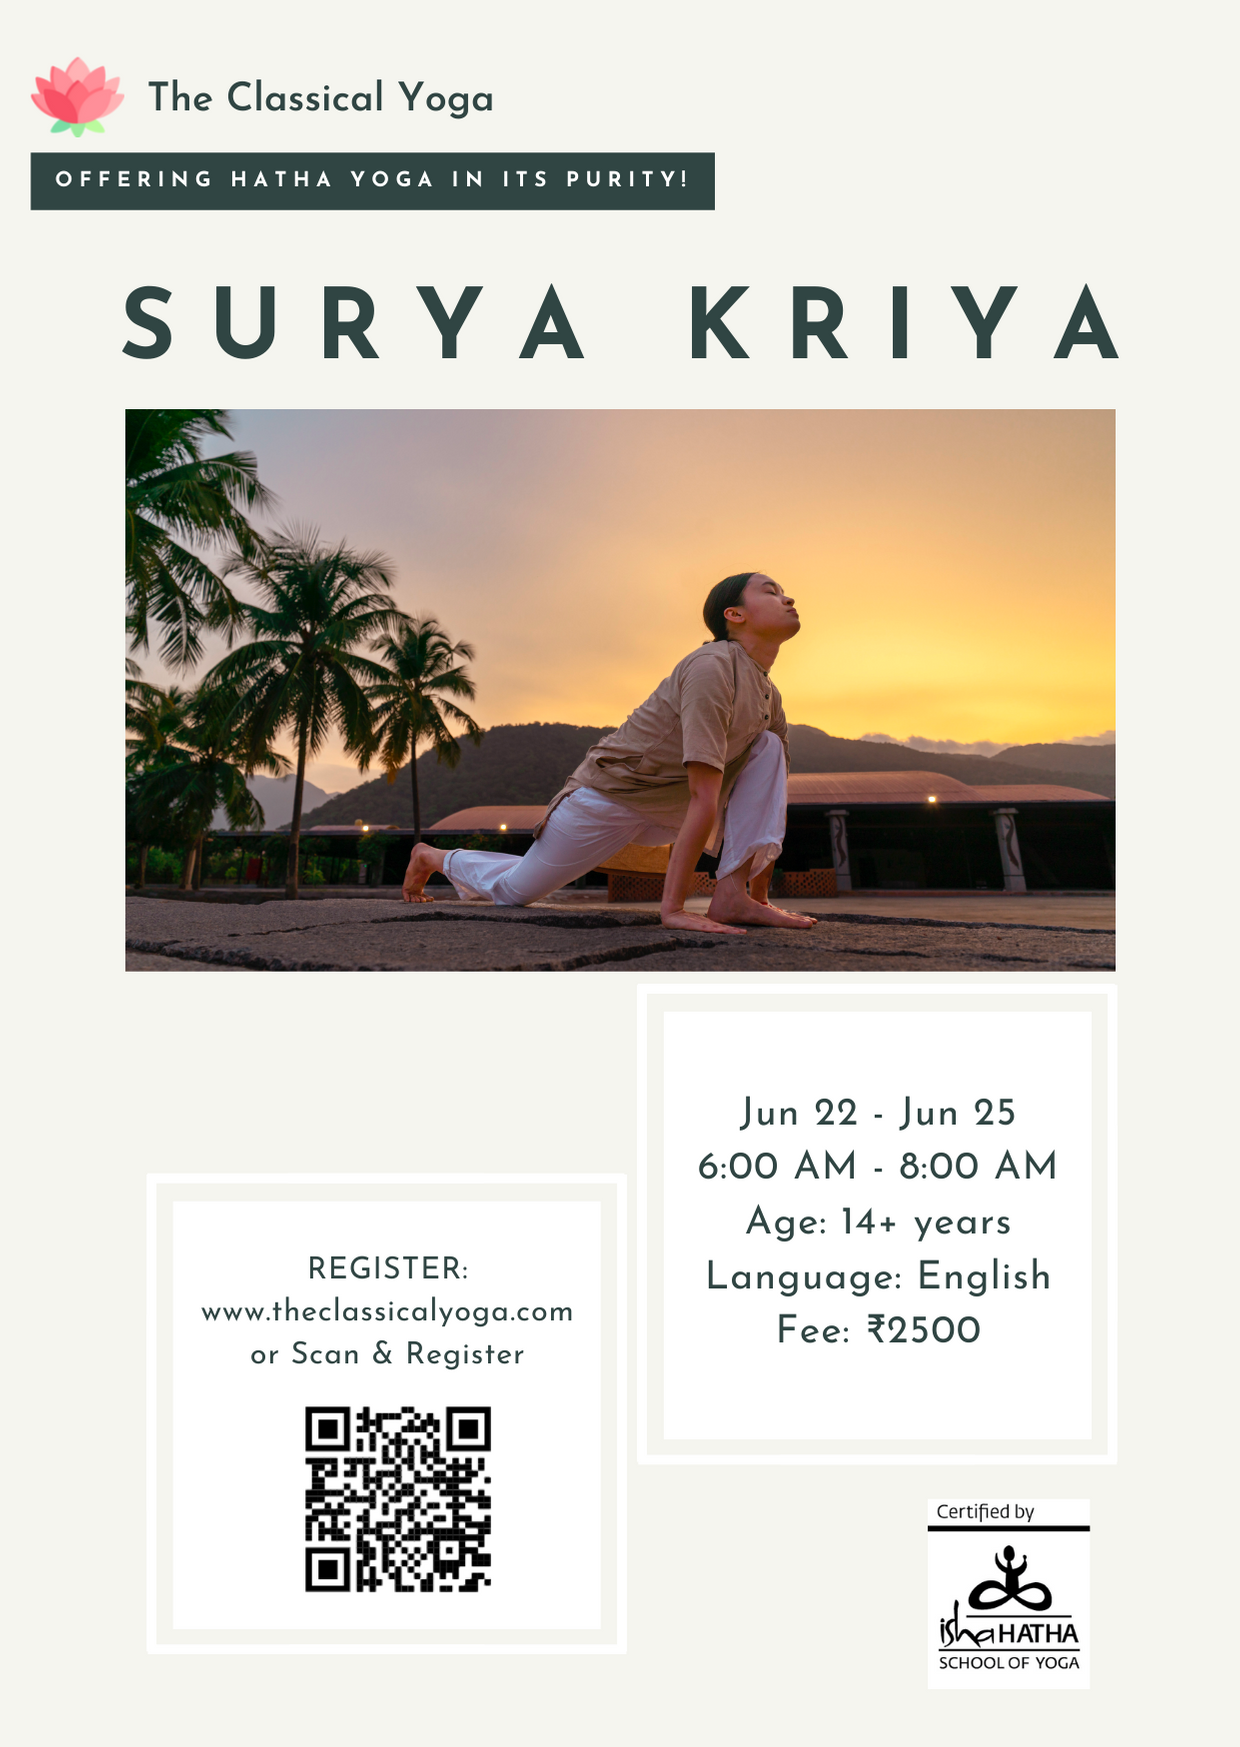
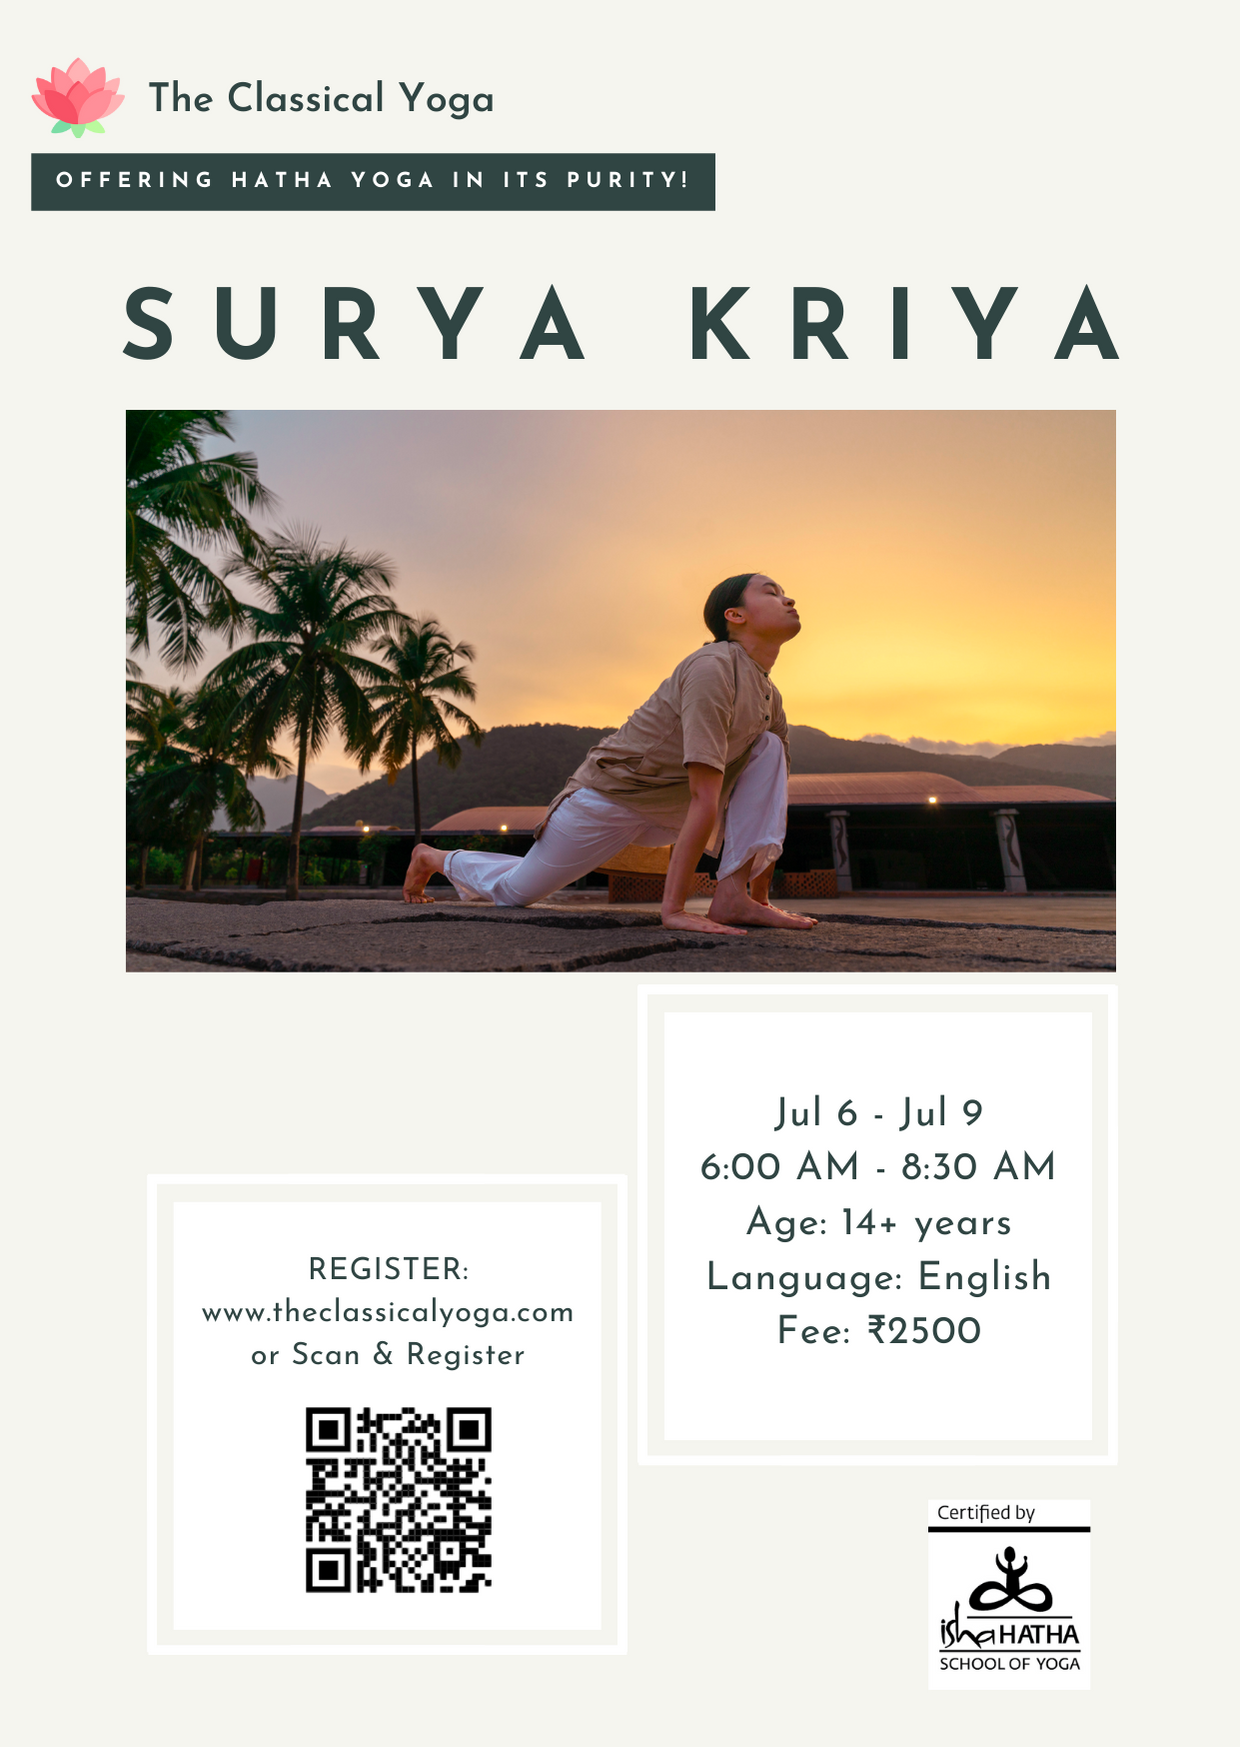
added new SK prgm jul 6-9, 2021

diff --git a/classes.html b/classes.html
@@ -182,6 +182,39 @@
         </div>
       </div>
 
+      <div class="row" id="SuryaKriya">
+        <div class="col-md-12">
+          <div class="services-2 ftco-animate d-flex w-100">
+            <div class="icon d-flex justify-content-center align-items-center\">
+              <span class="flaticon-meditation"></span>
+            </div>
+            <div class="text text-left pl-4">
+              <h3> <b>Surya Kriya - Fire Up The Sun Within in English</b> </h3>
+              <p class="up-details">6 Jul 2021 to 9 Jul 2021 | 6:00AM to 8:30AM | Age - 14+ years </p>
+              <p>
+                <a href="registration_page.html" target="_blank" class="btn btn-white px-4 py-3" > Register Now <span class="ion-ios-arrow-round-forward"></span></a>
+
+              <div class="container-fluid px-md-5">
+                <div class="row">
+                  <div class="col-md-3 ftco-animate">
+                    <a href="images/flyer/SuryaKriya/SK1.png" class="gallery image-popup img d-flex align-items-center"
+                      style="background-image: url(images/flyer/SuryaKriya/SK1.png);"></a>
+                    </a>
+
+                  </div>
+                  <div class="col-md-3 ftco-animate">
+                    <a href="images/flyer/SuryaKriya/SK2.png" class="gallery image-popup img d-flex align-items-center"
+                      style="background-image: url(images/flyer/SuryaKriya/SK2.png);">
+                    </a>
+                  </div>
+
+                </div>
+              </div>
+            </div>
+          </div>
+        </div>
+      </div>
+
       <div class="row" id="Yogasanas">
         <div class="col-md-12">
           <div class="services-2 ftco-animate d-flex w-100">
@@ -260,39 +293,7 @@
      
      
 
-      <div class="row" id="SuryaKriya">
-        <div class="col-md-12">
-          <div class="services-2 ftco-animate d-flex w-100">
-            <div class="icon d-flex justify-content-center align-items-center\">
-              <span class="flaticon-meditation"></span>
-            </div>
-            <div class="text text-left pl-4">
-              <h3> <b>Surya Kriya - Fire Up The Sun Within in English</b> </h3>
-              <p class="up-details">Jun 22, 2021 to Jun 25, 2021 | 6:00AM to 8:00AM | Age - 14+ years </p>
-              <p>
-                Registration Closed
-                <!-- <a href="registration_page.html" target="_blank" class="btn btn-white px-4 py-3" > Register Now <span class="ion-ios-arrow-round-forward"></span></a> -->
-
-              <div class="container-fluid px-md-5">
-                <div class="row">
-                  <div class="col-md-3 ftco-animate">
-                    <a href="images/flyer/SuryaKriya/SK1.png" class="gallery image-popup img d-flex align-items-center"
-                      style="background-image: url(images/flyer/SuryaKriya/SK1.png);"></a>
-                    </a>
-
-                  </div>
-                  <div class="col-md-3 ftco-animate">
-                    <a href="images/flyer/SuryaKriya/SK2.png" class="gallery image-popup img d-flex align-items-center"
-                      style="background-image: url(images/flyer/SuryaKriya/SK2.png);">
-                    </a>
-                  </div>
-
-                </div>
-              </div>
-            </div>
-          </div>
-        </div>
-      </div>
+     
 
       <div class="row" id="IDY21JunEve_700815_0">
         <div class="col-md-12">

diff --git a/registration_page.html b/registration_page.html
@@ -253,6 +253,10 @@
                   7:00pm - ₹2000
                 </option>
 
+                <option value="4DSK_6Jul9Jul_600830_2500">Surya Kriya | Jul 6 to Jul 9 | 6:00pm to
+                  8:30pm - ₹2500
+                </option>
+
 
               </select>
               <div class="invalid-feedback">Please select a program.</div>
